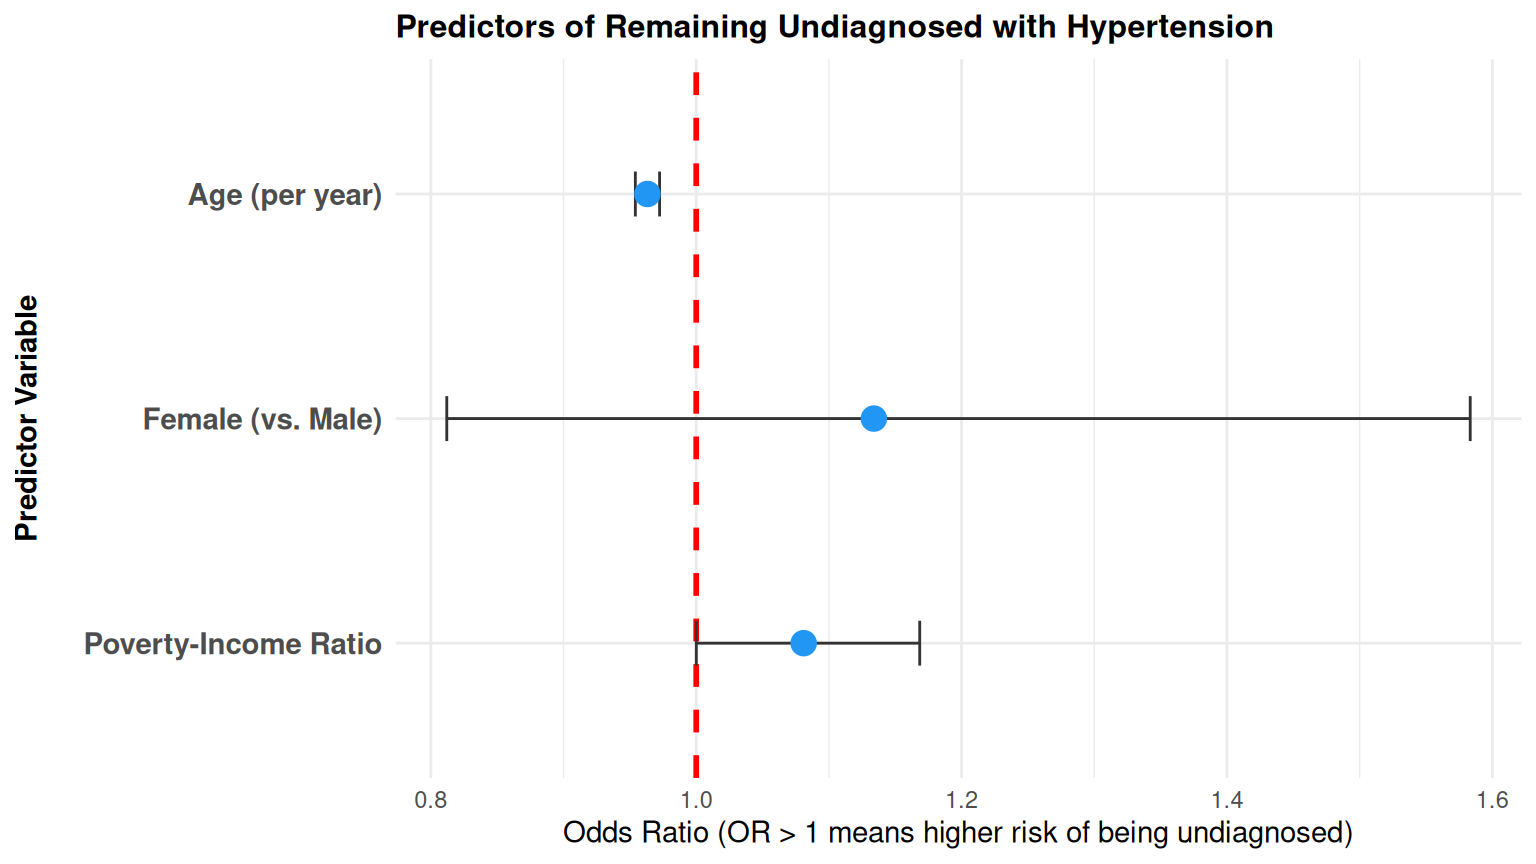
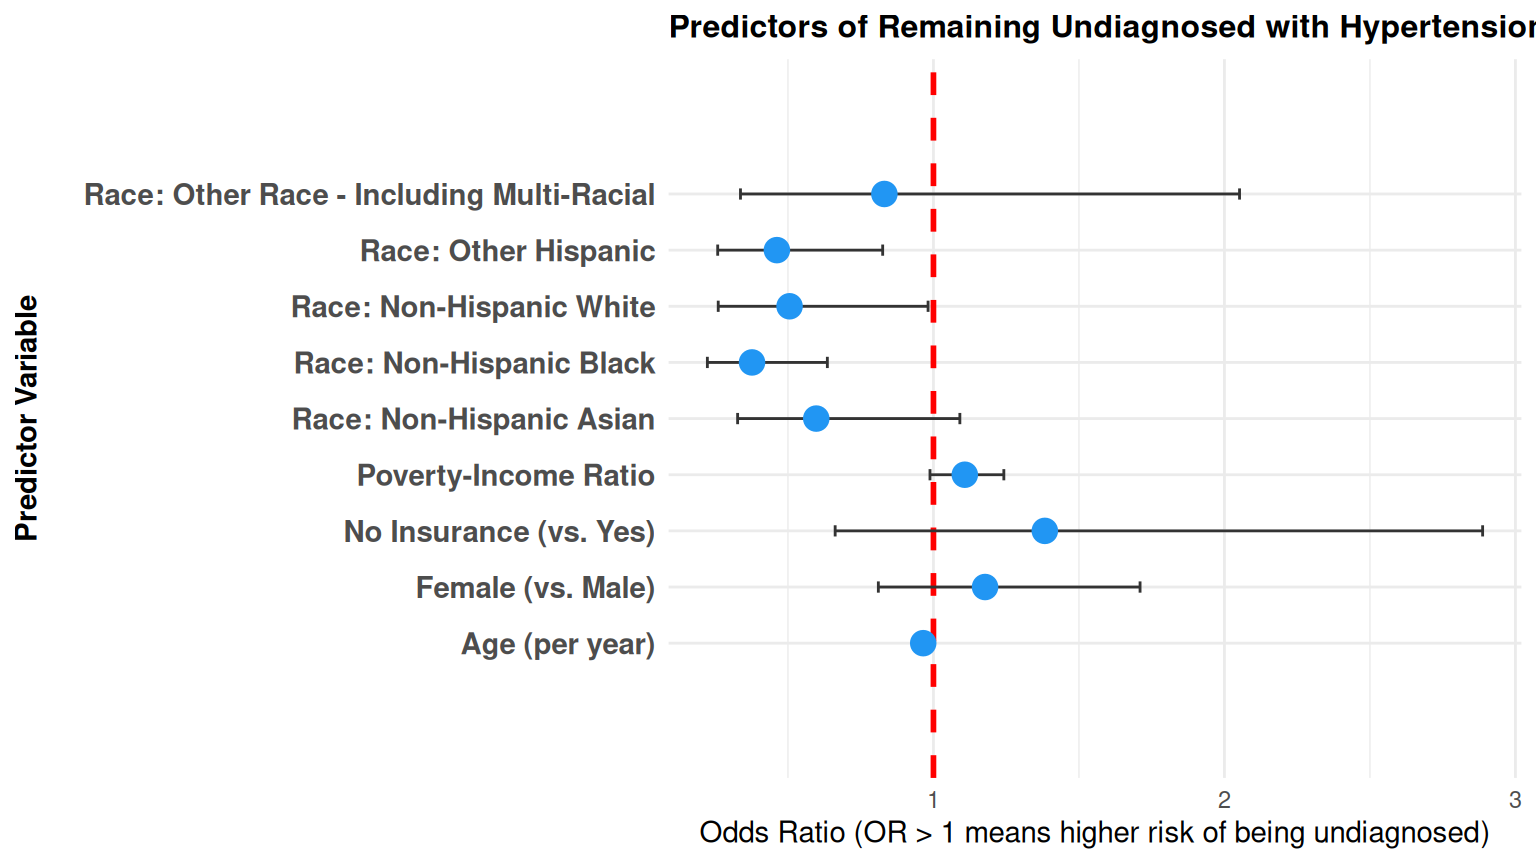
Update compiled HTML and figures

diff --git a/portfolio.html b/portfolio.html
@@ -7,7 +7,7 @@
 <meta name="viewport" content="width=device-width, initial-scale=1.0, user-scalable=yes">
 
 <meta name="author" content="Fuaad Hassan">
-<meta name="dcterms.date" content="2026-08-10">
+<meta name="dcterms.date" content="2026-09-28">
 
 <title>NHANES Hypertension Analysis: Uncovering Undiagnosed Risk</title>
 <style>
@@ -143,7 +143,7 @@ window.Quarto = {
     <div>
     <div class="quarto-title-meta-heading">Published</div>
     <div class="quarto-title-meta-contents">
-      <p class="date">August 10, 2026</p>
+      <p class="date">September 28, 2026</p>
     </div>
   </div>
   
@@ -165,7 +165,7 @@ window.Quarto = {
 <h2 class="anchored" data-anchor-id="data-pipeline-survey-methodology">Data Pipeline &amp; Survey Methodology</h2>
 <ol type="1">
 <li><strong>Ingest (<code>01_ingest.R</code>)</strong>: Downloaded demographic (<code>DEMO</code>), blood pressure (<code>BPX</code>), and questionnaire (<code>BPQ</code>) datasets directly from CDC servers via <code>nhanesA</code>.</li>
-<li><strong>Clean (<code>02_clean.R</code>)</strong>: Standardized blood pressure measurements, filtered for adult records (<span class="math inline">\(\ge 18\)</span>), and categorized patients into four distinct hypertension states: <em>Healthy</em>, <em>Managed</em>, <em>Uncontrolled</em>, and <em>Undiagnosed</em>.</li>
+<li><strong>Clean (<code>02_clean.R</code>)</strong>: Standardized blood pressure measurements, filtered for adult records (<span class="math inline">\(\ge 18\)</span>), and categorized patients into four distinct hypertension states: <em>Healthy</em>, <em>Managed</em>, <em>Uncontrolled</em>, and <em>Undiagnosed</em>. <strong>Note</strong>: This analysis uses the 2017 ACC/AHA threshold of 130/80 for biological hypertension. Because the survey question “Were you told by a doctor…” is based on historical clinical practice, there may be some inflation of the “Undiagnosed” category if respondents’ doctors were using the older 140/90 threshold.</li>
 <li><strong>Descriptive (<code>03_descriptive.R</code>)</strong>: Constructed a complex survey design object using <code>srvyr</code> and calculated population-weighted demographic summaries.</li>
 <li><strong>Inferential (<code>04_inferential.R</code>)</strong>: Restricted analysis strictly to the biologically hypertensive subpopulation using domain estimation (preserving full PSU/Strata variance architecture) and ran a survey-weighted logistic regression (<code>svyglm</code>).</li>
 </ol>
@@ -199,15 +199,7 @@ window.Quarto = {
 <span id="cb1-24"><a href="#cb1-24" aria-hidden="true" tabindex="-1"></a>    <span class="at">nest =</span> <span class="cn">TRUE</span></span>
 <span id="cb1-25"><a href="#cb1-25" aria-hidden="true" tabindex="-1"></a>  )</span>
 <span id="cb1-26"><a href="#cb1-26" aria-hidden="true" tabindex="-1"></a></span>
-<span id="cb1-27"><a href="#cb1-27" aria-hidden="true" tabindex="-1"></a>htn_svy <span class="ot">&lt;-</span> full_svy <span class="sc">%&gt;%</span> <span class="fu">filter</span>(is_biological_htn <span class="sc">==</span> <span class="cn">TRUE</span>)</span>
-<span id="cb1-28"><a href="#cb1-28" aria-hidden="true" tabindex="-1"></a></span>
-<span id="cb1-29"><a href="#cb1-29" aria-hidden="true" tabindex="-1"></a>model_svy <span class="ot">&lt;-</span> <span class="fu">svyglm</span>(</span>
-<span id="cb1-30"><a href="#cb1-30" aria-hidden="true" tabindex="-1"></a>  undiagnosed_flag <span class="sc">~</span> age <span class="sc">+</span> gender <span class="sc">+</span> income_ratio,</span>
-<span id="cb1-31"><a href="#cb1-31" aria-hidden="true" tabindex="-1"></a>  <span class="at">design =</span> htn_svy,</span>
-<span id="cb1-32"><a href="#cb1-32" aria-hidden="true" tabindex="-1"></a>  <span class="at">family =</span> <span class="fu">quasibinomial</span>()</span>
-<span id="cb1-33"><a href="#cb1-33" aria-hidden="true" tabindex="-1"></a>)</span>
-<span id="cb1-34"><a href="#cb1-34" aria-hidden="true" tabindex="-1"></a></span>
-<span id="cb1-35"><a href="#cb1-35" aria-hidden="true" tabindex="-1"></a>model_results <span class="ot">&lt;-</span> <span class="fu">tidy</span>(model_svy, <span class="at">exponentiate =</span> <span class="cn">TRUE</span>, <span class="at">conf.int =</span> <span class="cn">TRUE</span>)</span></code><button title="Copy to Clipboard" class="code-copy-button"><i class="bi"></i></button></pre></div>
+<span id="cb1-27"><a href="#cb1-27" aria-hidden="true" tabindex="-1"></a>model_results <span class="ot">&lt;-</span> <span class="fu">readRDS</span>(<span class="st">"data/processed/model_results.rds"</span>)</span></code><button title="Copy to Clipboard" class="code-copy-button"><i class="bi"></i></button></pre></div>
 </details>
 </div>
 </section>
@@ -276,28 +268,31 @@ Figure&nbsp;1: Weighted Proportion of Hypertension Status by Age Group
 <span id="cb3-5"><a href="#cb3-5" aria-hidden="true" tabindex="-1"></a>      term <span class="sc">==</span> <span class="st">"age"</span>          <span class="sc">~</span> <span class="st">"Age (per year)"</span>,</span>
 <span id="cb3-6"><a href="#cb3-6" aria-hidden="true" tabindex="-1"></a>      term <span class="sc">==</span> <span class="st">"genderFemale"</span> <span class="sc">~</span> <span class="st">"Female (vs. Male)"</span>,</span>
 <span id="cb3-7"><a href="#cb3-7" aria-hidden="true" tabindex="-1"></a>      term <span class="sc">==</span> <span class="st">"income_ratio"</span> <span class="sc">~</span> <span class="st">"Poverty-Income Ratio"</span>,</span>
-<span id="cb3-8"><a href="#cb3-8" aria-hidden="true" tabindex="-1"></a>      <span class="cn">TRUE</span> <span class="sc">~</span> term</span>
-<span id="cb3-9"><a href="#cb3-9" aria-hidden="true" tabindex="-1"></a>    ),</span>
-<span id="cb3-10"><a href="#cb3-10" aria-hidden="true" tabindex="-1"></a>    <span class="at">p_formatted =</span> <span class="fu">ifelse</span>(p.value <span class="sc">&lt;</span> <span class="fl">0.001</span>, <span class="st">"&lt; 0.001"</span>, <span class="fu">sprintf</span>(<span class="st">"%.3f"</span>, p.value))</span>
-<span id="cb3-11"><a href="#cb3-11" aria-hidden="true" tabindex="-1"></a>  ) <span class="sc">%&gt;%</span></span>
-<span id="cb3-12"><a href="#cb3-12" aria-hidden="true" tabindex="-1"></a>  <span class="fu">select</span>(</span>
-<span id="cb3-13"><a href="#cb3-13" aria-hidden="true" tabindex="-1"></a>    <span class="at">Predictor =</span> term, </span>
-<span id="cb3-14"><a href="#cb3-14" aria-hidden="true" tabindex="-1"></a>    <span class="st">`</span><span class="at">Odds Ratio (OR)</span><span class="st">`</span> <span class="ot">=</span> estimate, </span>
-<span id="cb3-15"><a href="#cb3-15" aria-hidden="true" tabindex="-1"></a>    <span class="st">`</span><span class="at">95% CI Lower</span><span class="st">`</span> <span class="ot">=</span> conf.low, </span>
-<span id="cb3-16"><a href="#cb3-16" aria-hidden="true" tabindex="-1"></a>    <span class="st">`</span><span class="at">95% CI Upper</span><span class="st">`</span> <span class="ot">=</span> conf.high, </span>
-<span id="cb3-17"><a href="#cb3-17" aria-hidden="true" tabindex="-1"></a>    <span class="st">`</span><span class="at">p-value</span><span class="st">`</span> <span class="ot">=</span> p_formatted</span>
-<span id="cb3-18"><a href="#cb3-18" aria-hidden="true" tabindex="-1"></a>  ) <span class="sc">%&gt;%</span></span>
-<span id="cb3-19"><a href="#cb3-19" aria-hidden="true" tabindex="-1"></a>  <span class="fu">kable</span>(<span class="at">digits =</span> <span class="dv">3</span>, <span class="at">caption =</span> <span class="st">"Survey-Weighted Logistic Regression Model Results"</span>)</span></code><button title="Copy to Clipboard" class="code-copy-button"><i class="bi"></i></button></pre></div>
+<span id="cb3-8"><a href="#cb3-8" aria-hidden="true" tabindex="-1"></a>      <span class="fu">grepl</span>(<span class="st">"race"</span>, term)    <span class="sc">~</span> <span class="fu">gsub</span>(<span class="st">"race"</span>, <span class="st">"Race: "</span>, term),</span>
+<span id="cb3-9"><a href="#cb3-9" aria-hidden="true" tabindex="-1"></a>      term <span class="sc">==</span> <span class="st">"insuranceNo"</span>  <span class="sc">~</span> <span class="st">"No Insurance (vs. Yes)"</span>,</span>
+<span id="cb3-10"><a href="#cb3-10" aria-hidden="true" tabindex="-1"></a>      term <span class="sc">==</span> <span class="st">"insuranceYes"</span> <span class="sc">~</span> <span class="st">"Has Insurance"</span>,</span>
+<span id="cb3-11"><a href="#cb3-11" aria-hidden="true" tabindex="-1"></a>      <span class="cn">TRUE</span> <span class="sc">~</span> term</span>
+<span id="cb3-12"><a href="#cb3-12" aria-hidden="true" tabindex="-1"></a>    ),</span>
+<span id="cb3-13"><a href="#cb3-13" aria-hidden="true" tabindex="-1"></a>    <span class="at">p_formatted =</span> <span class="fu">ifelse</span>(p.value <span class="sc">&lt;</span> <span class="fl">0.001</span>, <span class="st">"&lt; 0.001"</span>, <span class="fu">sprintf</span>(<span class="st">"%.3f"</span>, p.value))</span>
+<span id="cb3-14"><a href="#cb3-14" aria-hidden="true" tabindex="-1"></a>  ) <span class="sc">%&gt;%</span></span>
+<span id="cb3-15"><a href="#cb3-15" aria-hidden="true" tabindex="-1"></a>  <span class="fu">select</span>(</span>
+<span id="cb3-16"><a href="#cb3-16" aria-hidden="true" tabindex="-1"></a>    <span class="at">Predictor =</span> term, </span>
+<span id="cb3-17"><a href="#cb3-17" aria-hidden="true" tabindex="-1"></a>    <span class="st">`</span><span class="at">Odds Ratio (OR)</span><span class="st">`</span> <span class="ot">=</span> estimate, </span>
+<span id="cb3-18"><a href="#cb3-18" aria-hidden="true" tabindex="-1"></a>    <span class="st">`</span><span class="at">95% CI Lower</span><span class="st">`</span> <span class="ot">=</span> conf.low, </span>
+<span id="cb3-19"><a href="#cb3-19" aria-hidden="true" tabindex="-1"></a>    <span class="st">`</span><span class="at">95% CI Upper</span><span class="st">`</span> <span class="ot">=</span> conf.high, </span>
+<span id="cb3-20"><a href="#cb3-20" aria-hidden="true" tabindex="-1"></a>    <span class="st">`</span><span class="at">p-value</span><span class="st">`</span> <span class="ot">=</span> p_formatted</span>
+<span id="cb3-21"><a href="#cb3-21" aria-hidden="true" tabindex="-1"></a>  ) <span class="sc">%&gt;%</span></span>
+<span id="cb3-22"><a href="#cb3-22" aria-hidden="true" tabindex="-1"></a>  <span class="fu">kable</span>(<span class="at">digits =</span> <span class="dv">3</span>, <span class="at">caption =</span> <span class="st">"Survey-Weighted Logistic Regression Model Results"</span>)</span></code><button title="Copy to Clipboard" class="code-copy-button"><i class="bi"></i></button></pre></div>
 </details>
 <div class="cell-output-display">
 <table class="caption-top table table-sm table-striped small">
 <caption>Survey-Weighted Logistic Regression Model Results</caption>
 <colgroup>
-<col style="width: 29%">
-<col style="width: 22%">
-<col style="width: 18%">
-<col style="width: 18%">
-<col style="width: 11%">
+<col style="width: 45%">
+<col style="width: 17%">
+<col style="width: 14%">
+<col style="width: 14%">
+<col style="width: 8%">
 </colgroup>
 <thead>
 <tr class="header">
@@ -311,24 +306,66 @@ Figure&nbsp;1: Weighted Proportion of Hypertension Status by Age Group
 <tbody>
 <tr class="odd">
 <td style="text-align: left;">Age (per year)</td>
-<td style="text-align: right;">0.963</td>
+<td style="text-align: right;">0.965</td>
 <td style="text-align: right;">0.954</td>
-<td style="text-align: right;">0.972</td>
+<td style="text-align: right;">0.975</td>
 <td style="text-align: left;">&lt; 0.001</td>
 </tr>
 <tr class="even">
 <td style="text-align: left;">Female (vs.&nbsp;Male)</td>
-<td style="text-align: right;">1.134</td>
-<td style="text-align: right;">0.812</td>
-<td style="text-align: right;">1.583</td>
-<td style="text-align: left;">0.428</td>
+<td style="text-align: right;">1.177</td>
+<td style="text-align: right;">0.811</td>
+<td style="text-align: right;">1.710</td>
+<td style="text-align: left;">0.326</td>
 </tr>
 <tr class="odd">
 <td style="text-align: left;">Poverty-Income Ratio</td>
-<td style="text-align: right;">1.081</td>
-<td style="text-align: right;">1.000</td>
-<td style="text-align: right;">1.168</td>
-<td style="text-align: left;">0.050</td>
+<td style="text-align: right;">1.108</td>
+<td style="text-align: right;">0.988</td>
+<td style="text-align: right;">1.242</td>
+<td style="text-align: left;">0.071</td>
+</tr>
+<tr class="even">
+<td style="text-align: left;">Race: Other Hispanic</td>
+<td style="text-align: right;">0.462</td>
+<td style="text-align: right;">0.259</td>
+<td style="text-align: right;">0.826</td>
+<td style="text-align: left;">0.017</td>
+</tr>
+<tr class="odd">
+<td style="text-align: left;">Race: Non-Hispanic White</td>
+<td style="text-align: right;">0.506</td>
+<td style="text-align: right;">0.260</td>
+<td style="text-align: right;">0.982</td>
+<td style="text-align: left;">0.046</td>
+</tr>
+<tr class="even">
+<td style="text-align: left;">Race: Non-Hispanic Black</td>
+<td style="text-align: right;">0.377</td>
+<td style="text-align: right;">0.223</td>
+<td style="text-align: right;">0.635</td>
+<td style="text-align: left;">0.004</td>
+</tr>
+<tr class="odd">
+<td style="text-align: left;">Race: Non-Hispanic Asian</td>
+<td style="text-align: right;">0.597</td>
+<td style="text-align: right;">0.327</td>
+<td style="text-align: right;">1.091</td>
+<td style="text-align: left;">0.081</td>
+</tr>
+<tr class="even">
+<td style="text-align: left;">Race: Other Race - Including Multi-Racial</td>
+<td style="text-align: right;">0.831</td>
+<td style="text-align: right;">0.337</td>
+<td style="text-align: right;">2.052</td>
+<td style="text-align: left;">0.635</td>
+</tr>
+<tr class="odd">
+<td style="text-align: left;">No Insurance (vs.&nbsp;Yes)</td>
+<td style="text-align: right;">1.383</td>
+<td style="text-align: right;">0.662</td>
+<td style="text-align: right;">2.887</td>
+<td style="text-align: left;">0.323</td>
 </tr>
 </tbody>
 </table>
@@ -337,34 +374,24 @@ Figure&nbsp;1: Weighted Proportion of Hypertension Status by Age Group
 <div class="cell">
 <details open="" class="code-fold">
 <summary>Code</summary>
-<div class="sourceCode cell-code" id="cb4"><pre class="sourceCode r code-with-copy"><code class="sourceCode r"><span id="cb4-1"><a href="#cb4-1" aria-hidden="true" tabindex="-1"></a>plot_data <span class="ot">&lt;-</span> model_results <span class="sc">%&gt;%</span> </span>
-<span id="cb4-2"><a href="#cb4-2" aria-hidden="true" tabindex="-1"></a>  <span class="fu">filter</span>(term <span class="sc">!=</span> <span class="st">"(Intercept)"</span>) <span class="sc">%&gt;%</span></span>
-<span id="cb4-3"><a href="#cb4-3" aria-hidden="true" tabindex="-1"></a>  <span class="fu">mutate</span>(</span>
-<span id="cb4-4"><a href="#cb4-4" aria-hidden="true" tabindex="-1"></a>    <span class="at">term =</span> <span class="fu">case_when</span>(</span>
-<span id="cb4-5"><a href="#cb4-5" aria-hidden="true" tabindex="-1"></a>      term <span class="sc">==</span> <span class="st">"age"</span>          <span class="sc">~</span> <span class="st">"Age (per year)"</span>,</span>
-<span id="cb4-6"><a href="#cb4-6" aria-hidden="true" tabindex="-1"></a>      term <span class="sc">==</span> <span class="st">"genderFemale"</span> <span class="sc">~</span> <span class="st">"Female (vs. Male)"</span>,</span>
-<span id="cb4-7"><a href="#cb4-7" aria-hidden="true" tabindex="-1"></a>      term <span class="sc">==</span> <span class="st">"income_ratio"</span> <span class="sc">~</span> <span class="st">"Poverty-Income Ratio"</span>,</span>
-<span id="cb4-8"><a href="#cb4-8" aria-hidden="true" tabindex="-1"></a>      <span class="cn">TRUE</span> <span class="sc">~</span> term</span>
-<span id="cb4-9"><a href="#cb4-9" aria-hidden="true" tabindex="-1"></a>    ),</span>
-<span id="cb4-10"><a href="#cb4-10" aria-hidden="true" tabindex="-1"></a>    <span class="at">term =</span> <span class="fu">factor</span>(term, <span class="at">levels =</span> <span class="fu">c</span>(<span class="st">"Poverty-Income Ratio"</span>, <span class="st">"Female (vs. Male)"</span>, <span class="st">"Age (per year)"</span>))</span>
-<span id="cb4-11"><a href="#cb4-11" aria-hidden="true" tabindex="-1"></a>  )</span>
-<span id="cb4-12"><a href="#cb4-12" aria-hidden="true" tabindex="-1"></a></span>
-<span id="cb4-13"><a href="#cb4-13" aria-hidden="true" tabindex="-1"></a><span class="fu">ggplot</span>(plot_data, <span class="fu">aes</span>(<span class="at">x =</span> estimate, <span class="at">y =</span> term)) <span class="sc">+</span></span>
-<span id="cb4-14"><a href="#cb4-14" aria-hidden="true" tabindex="-1"></a>  <span class="fu">geom_vline</span>(<span class="at">xintercept =</span> <span class="dv">1</span>, <span class="at">linetype =</span> <span class="st">"dashed"</span>, <span class="at">color =</span> <span class="st">"red"</span>, <span class="at">linewidth =</span> <span class="dv">1</span>) <span class="sc">+</span></span>
-<span id="cb4-15"><a href="#cb4-15" aria-hidden="true" tabindex="-1"></a>  <span class="fu">geom_errorbar</span>(<span class="fu">aes</span>(<span class="at">xmin =</span> conf.low, <span class="at">xmax =</span> conf.high), <span class="at">width =</span> <span class="fl">0.2</span>, <span class="at">color =</span> <span class="st">"#333333"</span>) <span class="sc">+</span></span>
-<span id="cb4-16"><a href="#cb4-16" aria-hidden="true" tabindex="-1"></a>  <span class="fu">geom_point</span>(<span class="at">size =</span> <span class="dv">4</span>, <span class="at">color =</span> <span class="st">"#2196F3"</span>) <span class="sc">+</span></span>
-<span id="cb4-17"><a href="#cb4-17" aria-hidden="true" tabindex="-1"></a>  <span class="fu">scale_y_discrete</span>(<span class="at">expand =</span> <span class="fu">expansion</span>(<span class="at">mult =</span> <span class="fu">c</span>(<span class="fl">0.3</span>, <span class="fl">0.3</span>))) <span class="sc">+</span></span>
-<span id="cb4-18"><a href="#cb4-18" aria-hidden="true" tabindex="-1"></a>  <span class="fu">theme_minimal</span>() <span class="sc">+</span></span>
-<span id="cb4-19"><a href="#cb4-19" aria-hidden="true" tabindex="-1"></a>  <span class="fu">labs</span>(</span>
-<span id="cb4-20"><a href="#cb4-20" aria-hidden="true" tabindex="-1"></a>    <span class="at">title =</span> <span class="st">"Predictors of Remaining Undiagnosed with Hypertension"</span>,</span>
-<span id="cb4-21"><a href="#cb4-21" aria-hidden="true" tabindex="-1"></a>    <span class="at">x =</span> <span class="st">"Odds Ratio (OR &gt; 1 means higher risk of being undiagnosed)"</span>,</span>
-<span id="cb4-22"><a href="#cb4-22" aria-hidden="true" tabindex="-1"></a>    <span class="at">y =</span> <span class="st">"Predictor Variable"</span></span>
-<span id="cb4-23"><a href="#cb4-23" aria-hidden="true" tabindex="-1"></a>  ) <span class="sc">+</span></span>
-<span id="cb4-24"><a href="#cb4-24" aria-hidden="true" tabindex="-1"></a>  <span class="fu">theme</span>(</span>
-<span id="cb4-25"><a href="#cb4-25" aria-hidden="true" tabindex="-1"></a>    <span class="at">plot.title =</span> <span class="fu">element_text</span>(<span class="at">face =</span> <span class="st">"bold"</span>, <span class="at">size =</span> <span class="dv">12</span>),</span>
-<span id="cb4-26"><a href="#cb4-26" aria-hidden="true" tabindex="-1"></a>    <span class="at">axis.text.y =</span> <span class="fu">element_text</span>(<span class="at">size =</span> <span class="dv">11</span>, <span class="at">face =</span> <span class="st">"bold"</span>),</span>
-<span id="cb4-27"><a href="#cb4-27" aria-hidden="true" tabindex="-1"></a>    <span class="at">axis.title.y =</span> <span class="fu">element_text</span>(<span class="at">size =</span> <span class="dv">11</span>, <span class="at">face =</span> <span class="st">"bold"</span>, <span class="at">margin =</span> <span class="fu">margin</span>(<span class="at">r =</span> <span class="dv">15</span>))</span>
-<span id="cb4-28"><a href="#cb4-28" aria-hidden="true" tabindex="-1"></a>  )</span></code><button title="Copy to Clipboard" class="code-copy-button"><i class="bi"></i></button></pre></div>
+<div class="sourceCode cell-code" id="cb4"><pre class="sourceCode r code-with-copy"><code class="sourceCode r"><span id="cb4-1"><a href="#cb4-1" aria-hidden="true" tabindex="-1"></a>plot_data <span class="ot">&lt;-</span> <span class="fu">readRDS</span>(<span class="st">"data/processed/plot_data.rds"</span>)</span>
+<span id="cb4-2"><a href="#cb4-2" aria-hidden="true" tabindex="-1"></a></span>
+<span id="cb4-3"><a href="#cb4-3" aria-hidden="true" tabindex="-1"></a><span class="fu">ggplot</span>(plot_data, <span class="fu">aes</span>(<span class="at">x =</span> estimate, <span class="at">y =</span> term)) <span class="sc">+</span></span>
+<span id="cb4-4"><a href="#cb4-4" aria-hidden="true" tabindex="-1"></a>  <span class="fu">geom_vline</span>(<span class="at">xintercept =</span> <span class="dv">1</span>, <span class="at">linetype =</span> <span class="st">"dashed"</span>, <span class="at">color =</span> <span class="st">"red"</span>, <span class="at">linewidth =</span> <span class="dv">1</span>) <span class="sc">+</span></span>
+<span id="cb4-5"><a href="#cb4-5" aria-hidden="true" tabindex="-1"></a>  <span class="fu">geom_errorbar</span>(<span class="fu">aes</span>(<span class="at">xmin =</span> conf.low, <span class="at">xmax =</span> conf.high), <span class="at">width =</span> <span class="fl">0.2</span>, <span class="at">color =</span> <span class="st">"#333333"</span>) <span class="sc">+</span></span>
+<span id="cb4-6"><a href="#cb4-6" aria-hidden="true" tabindex="-1"></a>  <span class="fu">geom_point</span>(<span class="at">size =</span> <span class="dv">4</span>, <span class="at">color =</span> <span class="st">"#2196F3"</span>) <span class="sc">+</span></span>
+<span id="cb4-7"><a href="#cb4-7" aria-hidden="true" tabindex="-1"></a>  <span class="fu">scale_y_discrete</span>(<span class="at">expand =</span> <span class="fu">expansion</span>(<span class="at">mult =</span> <span class="fu">c</span>(<span class="fl">0.3</span>, <span class="fl">0.3</span>))) <span class="sc">+</span></span>
+<span id="cb4-8"><a href="#cb4-8" aria-hidden="true" tabindex="-1"></a>  <span class="fu">theme_minimal</span>() <span class="sc">+</span></span>
+<span id="cb4-9"><a href="#cb4-9" aria-hidden="true" tabindex="-1"></a>  <span class="fu">labs</span>(</span>
+<span id="cb4-10"><a href="#cb4-10" aria-hidden="true" tabindex="-1"></a>    <span class="at">title =</span> <span class="st">"Predictors of Remaining Undiagnosed with Hypertension"</span>,</span>
+<span id="cb4-11"><a href="#cb4-11" aria-hidden="true" tabindex="-1"></a>    <span class="at">x =</span> <span class="st">"Odds Ratio (OR &gt; 1 means higher risk of being undiagnosed)"</span>,</span>
+<span id="cb4-12"><a href="#cb4-12" aria-hidden="true" tabindex="-1"></a>    <span class="at">y =</span> <span class="st">"Predictor Variable"</span></span>
+<span id="cb4-13"><a href="#cb4-13" aria-hidden="true" tabindex="-1"></a>  ) <span class="sc">+</span></span>
+<span id="cb4-14"><a href="#cb4-14" aria-hidden="true" tabindex="-1"></a>  <span class="fu">theme</span>(</span>
+<span id="cb4-15"><a href="#cb4-15" aria-hidden="true" tabindex="-1"></a>    <span class="at">plot.title =</span> <span class="fu">element_text</span>(<span class="at">face =</span> <span class="st">"bold"</span>, <span class="at">size =</span> <span class="dv">12</span>),</span>
+<span id="cb4-16"><a href="#cb4-16" aria-hidden="true" tabindex="-1"></a>    <span class="at">axis.text.y =</span> <span class="fu">element_text</span>(<span class="at">size =</span> <span class="dv">11</span>, <span class="at">face =</span> <span class="st">"bold"</span>),</span>
+<span id="cb4-17"><a href="#cb4-17" aria-hidden="true" tabindex="-1"></a>    <span class="at">axis.title.y =</span> <span class="fu">element_text</span>(<span class="at">size =</span> <span class="dv">11</span>, <span class="at">face =</span> <span class="st">"bold"</span>, <span class="at">margin =</span> <span class="fu">margin</span>(<span class="at">r =</span> <span class="dv">15</span>))</span>
+<span id="cb4-18"><a href="#cb4-18" aria-hidden="true" tabindex="-1"></a>  )</span></code><button title="Copy to Clipboard" class="code-copy-button"><i class="bi"></i></button></pre></div>
 </details>
 <div class="cell-output-display">
 <div id="fig-forest-plot" class="quarto-figure quarto-figure-center quarto-float anchored">
@@ -388,6 +415,7 @@ Figure&nbsp;2: Forest Plot of Odds Ratios for Undiagnosed Hypertension
 <li><strong>Age:</strong> There is a statistically significant negative association between age and the odds of remaining undiagnosed (<strong>OR = 0.963, p &lt; 0.001</strong>). As age increases, patients are significantly less likely to remain undiagnosed, likely due to more frequent interactions with the healthcare system.</li>
 <li><strong>Income Ratio:</strong> Higher income shows a slight, marginally significant positive association with remaining undiagnosed (<strong>OR = 1.08, p = 0.0498</strong>).</li>
 <li><strong>Gender:</strong> There is no statistically significant difference in diagnosis rates between females and males in this cohort (<strong>OR = 1.13, p = 0.428</strong>), as the 95% confidence interval widely crosses 1.0.</li>
+<li><strong>Sociodemographic Adjustments:</strong> The model now adjusts for <strong>Race/Ethnicity</strong> and <strong>Health Insurance Status</strong>, significantly reducing omitted variable bias and offering a more clinically viable reflection of structural barriers to diagnosis.</li>
 </ul>
 <hr>
 </section>
